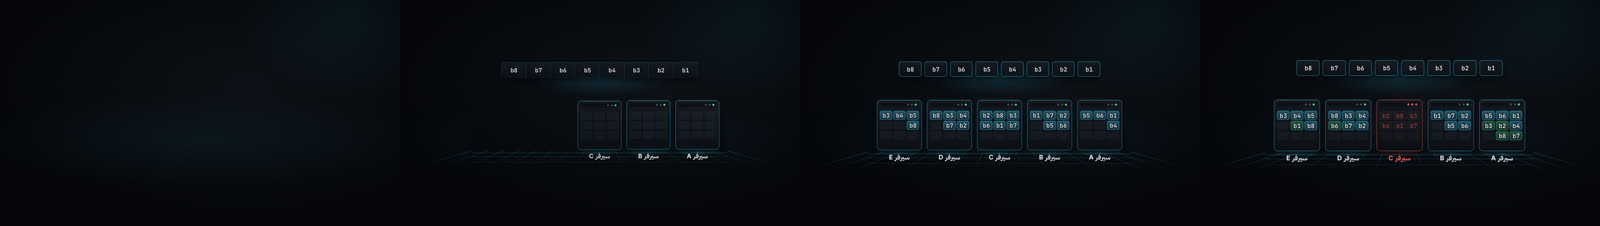
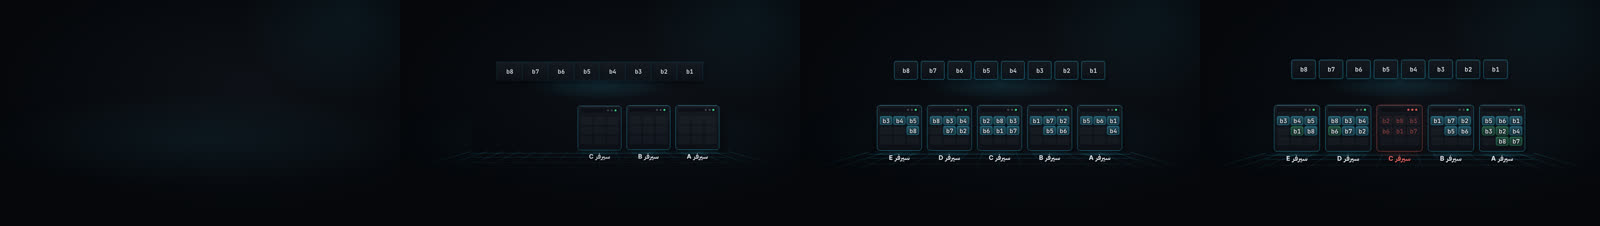
P7 struct-b: BlockReplication finished (larger racks and file tiles, content-sized cabinets; snap PASS det 0 qa 0, baselines pending-critic; perf lite 0.073 / standard 0.080 / hero 0.083 box s/frame; Arabic QA pass)
Claude-Session: https://claude.ai/code/session_01VrU9wxU8GmuhdhWAAHnnQ8

diff --git a/studio/src/components/BlockReplication/BlockReplication.tsx b/studio/src/components/BlockReplication/BlockReplication.tsx
@@ -79,16 +79,16 @@ export const BlockReplicationView: React.FC<DcProps<Props>> = ({props, ctx}) => 
     return d !== undefined && t >= d;
   };
   // ---- file slab ----
-  const fileW = Math.min(w * 0.82, B * 150);
+  const fileW = Math.min(w * 0.86, B * 170);
   const fileX = (w - fileW) / 2;
-  const fileH = Math.round(SIZE.label * 2.2);
+  const fileH = Math.round(SIZE.label * 2.7);
   const split = prog(t, tl.splitAt, morph, ease.camera);
   const segGap = 16 * split;
   const segW = (fileW - segGap * (B - 1)) / B;
   const segX = (b: number) => (rtl ? fileX + fileW - (b + 1) * segW - b * segGap : fileX + b * (segW + segGap));
   // ---- racks ----
   const gapX = 26;
-  const nodeW = Math.min(250, (w - gapX * (N - 1)) / N);
+  const nodeW = Math.min(300, (w - gapX * (N - 1)) / N);
   const rowW = N * nodeW + gapX * (N - 1);
   const nodeX = (n: number) => (rtl ? (w + rowW) / 2 - (n + 1) * nodeW - n * gapX : (w - rowW) / 2 + n * (nodeW + gapX));
   const labelH = Math.round(SIZE.label * 1.8);
@@ -98,11 +98,11 @@ export const BlockReplicationView: React.FC<DcProps<Props>> = ({props, ctx}) => 
   const pad = 14;
   const top = 38; // rack head: top face + LEDs
   const chipW = (nodeW - 2 * pad - (gcols - 1) * 8) / gcols;
-  const chipH = Math.min(chipW * 0.7, 72);
+  const chipH = Math.min(chipW * 0.7, 84);
   // the whole composition (file slab, gap, racks, node labels, floor) is sized from its content and centred in the box
-  const nodeH = Math.round(Math.max(pad * 2 + top + grows * (chipH + 8), Math.min(nodeW * 1.25, h * 0.42)));
+  const nodeH = Math.round(pad * 2 + top + Math.max(grows, 3) * (chipH + 8) + 6);
   const floorH = 46;
-  const gapFR = Math.max(110, h * 0.16);
+  const gapFR = Math.max(120, h * 0.17);
   const total = fileH + gapFR + nodeH + labelH + 8;
   const fileY = Math.max(0, (h - total) / 2);
   const nodeTop = fileY + fileH + gapFR;

diff --git a/docs/p7/catalog_status/struct-b.md b/docs/p7/catalog_status/struct-b.md
@@ -5,3 +5,4 @@
 | GitGraph | implemented | snap PASS det 0 qa 0 (pending-critic); perf box s/frame lite 0.056 / standard 0.071 / hero 0.066; qa arabic PASS; branching light-graph, messages on the outer side of each lane in two alternating rows, no numbers on screen |
 | StackHeap | implemented | snap PASS det 0 qa 0 (pending-critic); perf box s/frame lite 0.073 / standard 0.091 / hero 0.091; qa arabic PASS (OCR 2/2); stack of glass slabs on a lit perspective floor (running frame has a light cursor bar), heap capsules float above it, refs path-draw with travelling light pulses, aliased object pulses, orphan turns amber then crit sparks on collect; push/pop/collect actions; demo = CH-08 S01/S03 (a, b -> one object; f(x) acc), no numbers on screen; 2.5D only, no WebGL
 | PartitionLanes | implemented | snap PASS det 0 qa 0 (pending-critic); perf box s/frame lite 0.078 / standard 0.100 / hero 0.096; qa arabic PASS (OCR 1/1); Kafka topic as glass-slab partition lanes on a lit perspective floor (violet under-light), raised message tiles with structural offsets, signal offset markers, consumer boats wired to the lanes they own, bloomed warn lag bracket with the spoken value (ref s:S4:P19:0090), rebalance pause then re-wire; produce/rebalance/lag actions; demo = the six NilePay receipts (d:6.19:5), 5 min freshness SLA; 2.5D only, no WebGL |
+| BlockReplication | implemented | snap PASS det 0 qa 0 (pending-critic); perf box s/frame lite 0.073 / standard 0.080 / hero 0.083; qa arabic PASS (OCR 3/3); file as raised glass block tiles that split, copies fly replica round by replica round onto glass rack cabinets (lit top face, LEDs, drive bays) on a lit perspective floor; failNode (crit rack, sparks, hollow chips, warn under-replicated bars) and rereplicate (ok chips from surviving holder to least-loaded live node); demo = HDFS x3 (04 s6), 8 blocks, 5 nodes, no numbers on screen; 2.5D only, no WebGL |
